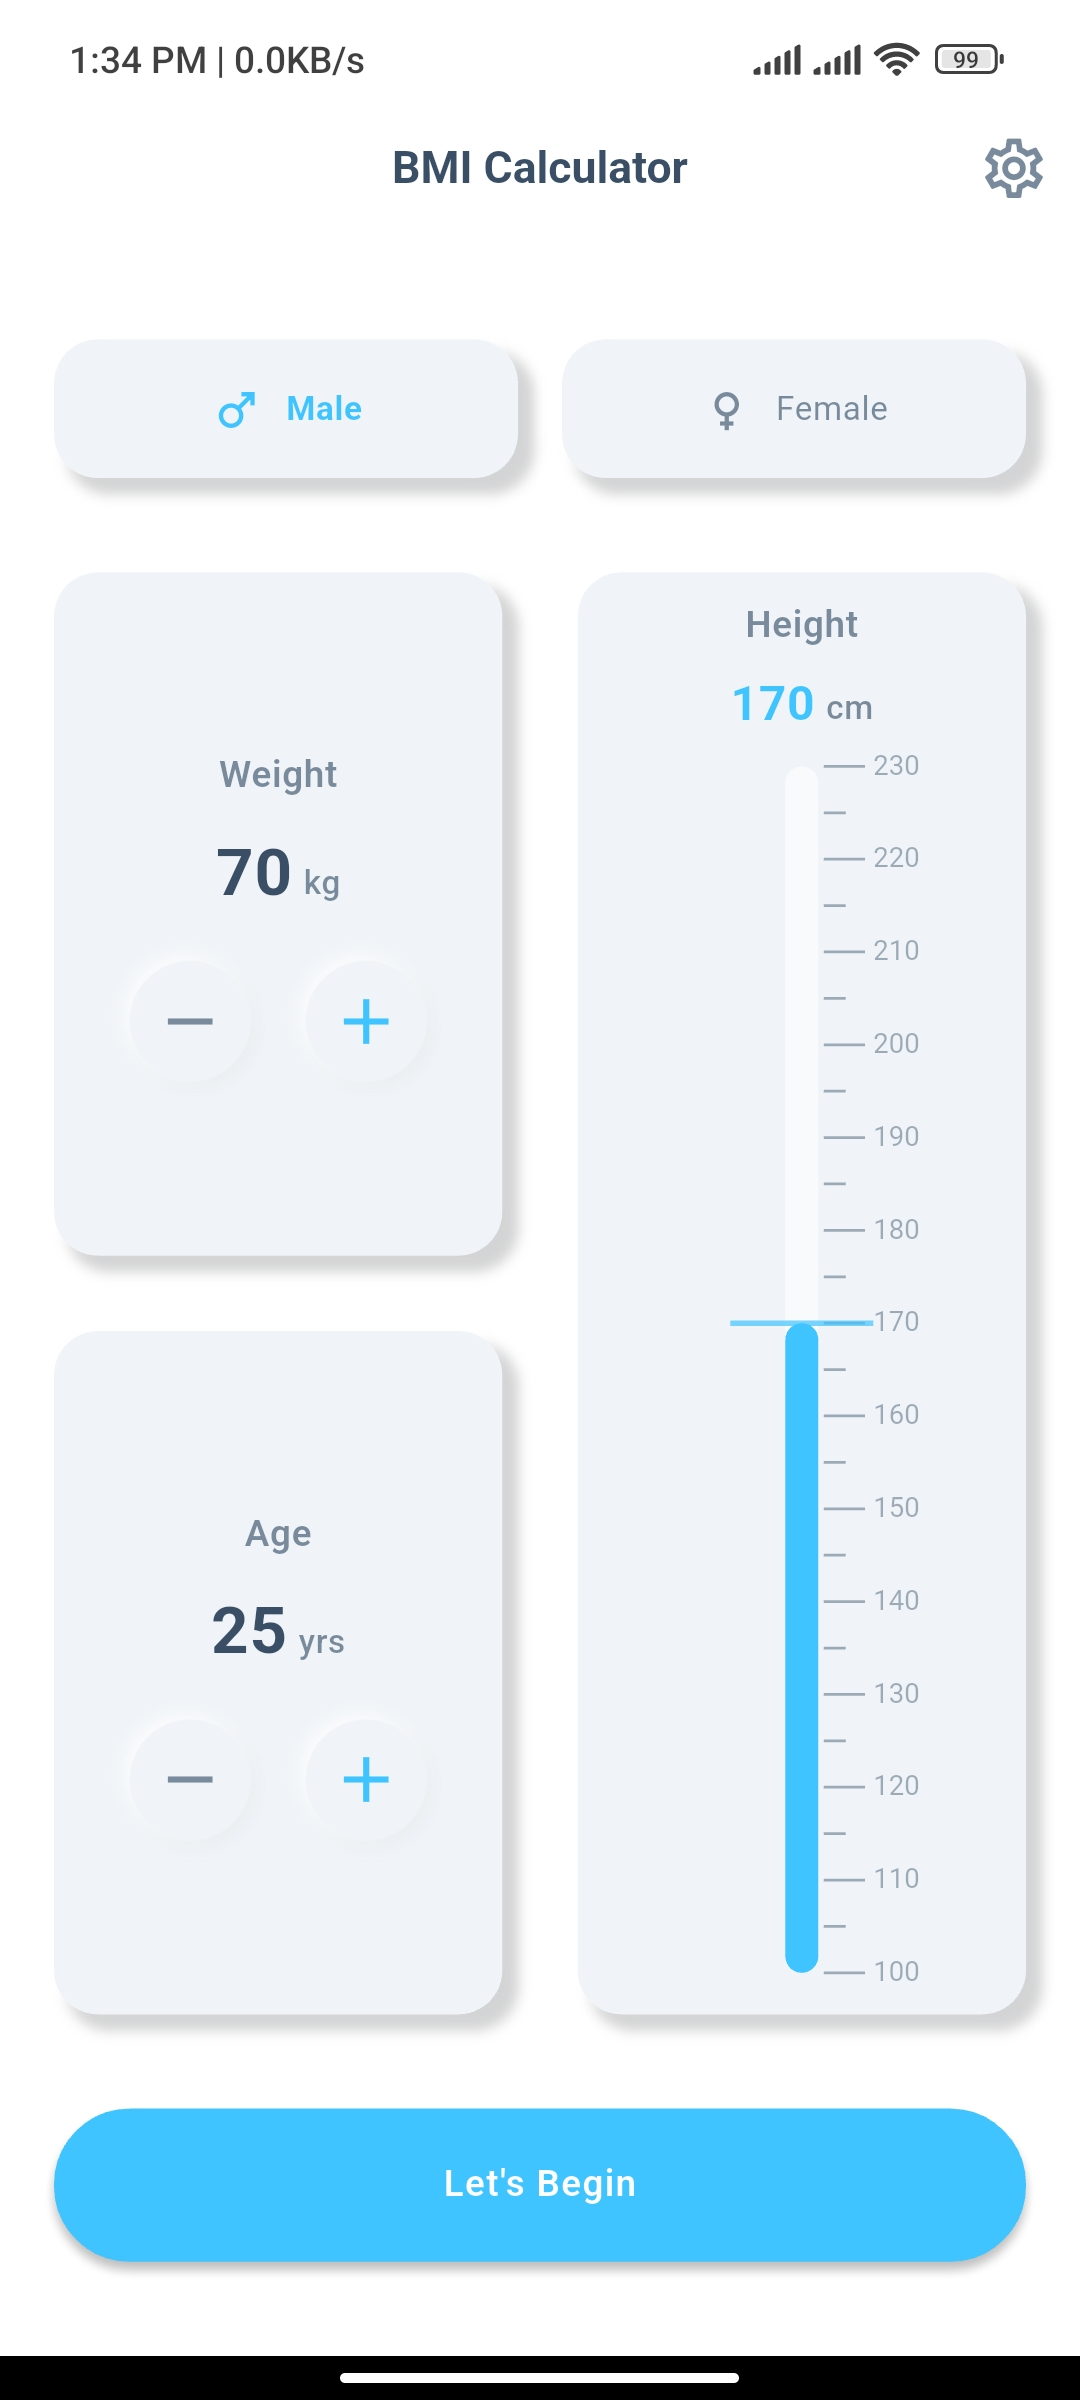
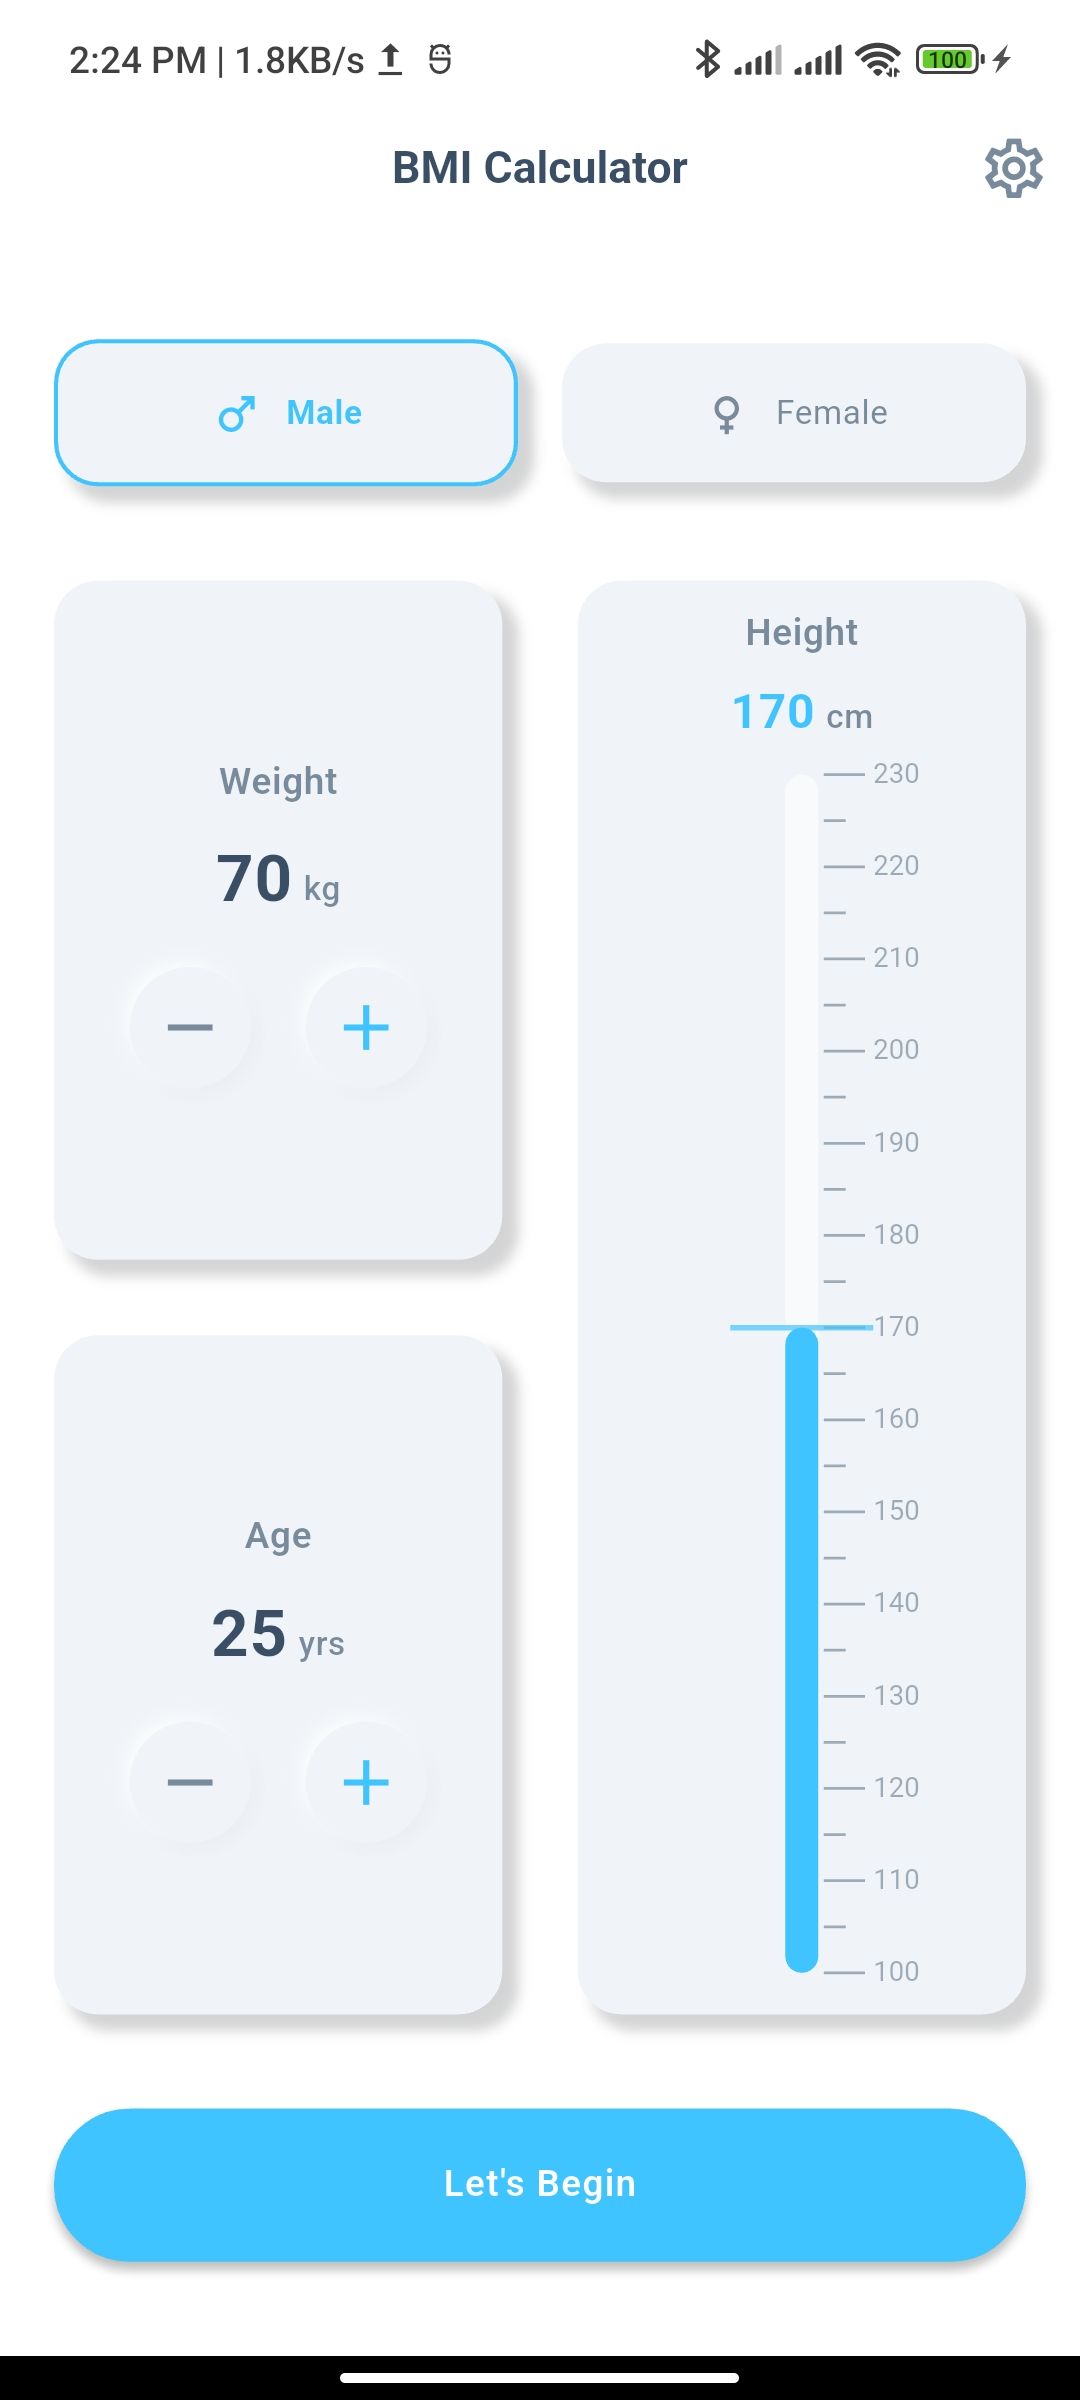
code fix commit

diff --git a/lib/bmi_screen.dart b/lib/bmi_screen.dart
@@ -32,8 +32,8 @@ class NeumorphicCard extends StatelessWidget {
     
     BoxBorder? borderStyle;
     if (selected) {
-      // V2 gender selector changed text color, not card. Let's keep card consistent.
-      // If a border is desired for selection: borderStyle = Border.all(color: AppColors.primaryAccent, width: 1.5);
+      // V2 gender selector change card border color.
+      borderStyle = Border.all(color: AppColors.primaryAccent, width: 1.5);
     }
 
     return GestureDetector(
@@ -47,13 +47,13 @@ class NeumorphicCard extends StatelessWidget {
           border: borderStyle, // Apply border if defined
           boxShadow: [
             BoxShadow(
-              color: AppColors.shadowDark.withOpacity(0.5), // V2 style
+              color: AppColors.shadowDark.withValues(alpha: 0.5), // V2 style
               offset: const Offset(5, 5),
               blurRadius: 3,
               spreadRadius: 1,
             ),
             BoxShadow(
-              color: AppColors.shadowLight.withOpacity(0.7), // V2 style
+              color: AppColors.shadowLight.withValues(alpha: 0.7), // V2 style
               offset: const Offset(-5, -5),
               blurRadius: 3,
               spreadRadius: 1,
@@ -94,12 +94,12 @@ class ValueStepper extends StatelessWidget {
           shape: BoxShape.circle,
           boxShadow: [
             BoxShadow(
-              color: AppColors.shadowDark.withOpacity(0.1),
+              color: AppColors.shadowDark.withValues(alpha: 0.1),
               offset: const Offset(2, 2),
               blurRadius: 4,
             ),
             BoxShadow(
-              color: AppColors.shadowLight.withOpacity(0.7),
+              color: AppColors.shadowLight.withValues(alpha: 0.7),
               offset: const Offset(-2, -2),
               blurRadius: 4,
             ),
@@ -264,9 +264,9 @@ class _ThermometerHeightSliderState extends State<ThermometerHeightSlider> {
                   maxHeight: widget.maxHeight,
                   trackHeight: trackHeight,
                   accentColor: AppColors.primaryAccent, // V2 philosophy
-                  tickColor: AppColors.textSecondary.withOpacity(0.7), // V2 philosophy
-                  backgroundColor: AppColors.primaryBackground.withOpacity(0.5), // V2 philosophy (light track)
-                  indicatorLineColor: AppColors.primaryAccent.withOpacity(0.7), // V2 philosophy
+                  tickColor: AppColors.textSecondary.withValues(alpha: 0.7), // V2 philosophy
+                  backgroundColor: AppColors.primaryBackground.withValues(alpha: 0.5), // V2 philosophy (light track)
+                  indicatorLineColor: AppColors.primaryAccent.withValues(alpha: 0.7), // V2 philosophy
                 ),
               ),
             ),
@@ -457,7 +457,7 @@ class _BmiScreenState extends State<BmiScreen> {
   void _calculateAndNavigate() {
     if (_selectedGender == null) {
       ScaffoldMessenger.of(context).showSnackBar(
-        SnackBar(content: const Text('Please select a gender.'), backgroundColor: AppColors.error), // V2 style
+        const SnackBar(content: Text('Please select a gender.'), backgroundColor: AppColors.error), // V2 style
       );
       return;
     }
@@ -492,13 +492,13 @@ class _BmiScreenState extends State<BmiScreen> {
     return Scaffold(
       backgroundColor: AppColors.primaryBackground, // V2 style for scaffold background
       appBar: AppBar(
-        title: Text('BMI Calculator', style: TextStyle(fontWeight: FontWeight.bold, color: AppColors.textPrimary)), // V2 style
+        title: const Text('BMI Calculator', style: TextStyle(fontWeight: FontWeight.bold, color: AppColors.textPrimary)), // V2 style
         centerTitle: true,
         elevation: 0,
         backgroundColor: AppColors.primaryBackground, // V2 often used cardBackground or transparent for AppBar
         actions: [
           IconButton(
-            icon: Icon(Icons.settings_outlined, size: 26, color: AppColors.iconColor), // V2 style
+            icon: const Icon(Icons.settings_outlined, size: 26, color: AppColors.iconColor), // V2 style
             onPressed: () { /* Placeholder for settings */ },
           ),
         ],

diff --git a/lib/bmi_details_screen.dart b/lib/bmi_details_screen.dart
@@ -10,9 +10,11 @@ class BmiDetailsScreen extends StatelessWidget {
   // Aligning with V2 color logic for categories
   Color _getCategoryColor(String category, BuildContext context) {
     if (category == "Underweight") return AppColors.success; // V2 color
-    if (category == "Normal weight") return Colors.lightBlue.shade400;      // V2 color
+    if (category == "Normal weight") {
+      return Colors.lightBlue.shade400; // V2 color
+    }
     if (category == "Overweight") return Colors.orange.shade600; // V2 color
-    if (category == "Obese") return AppColors.error;          // V2 color
+    if (category == "Obese") return AppColors.error; // V2 color
     return AppColors.textPrimary; // V2 default
   }
 
@@ -32,7 +34,8 @@ class BmiDetailsScreen extends StatelessWidget {
     };
 
     return Card(
-      elevation: 3.0, // V2 often had subtle elevation or relied on neumorphic shadows
+      elevation:
+          3.0, // V2 often had subtle elevation or relied on neumorphic shadows
       margin: EdgeInsets.symmetric(vertical: screenSize.height * 0.015),
       shape: RoundedRectangleBorder(borderRadius: BorderRadius.circular(15.0)),
       color: AppColors.cardBackground, // V2 card background
@@ -70,14 +73,15 @@ class BmiDetailsScreen extends StatelessWidget {
                     Text(
                       categoryRange,
                       style: TextStyle(
-                        color: AppColors.textSecondary, // V2 secondary text color
+                        color:
+                            AppColors.textSecondary, // V2 secondary text color
                         fontSize: textFontSize,
                       ),
                     ),
                   ],
                 ),
               );
-            }).toList(),
+            }),
           ],
         ),
       ),
@@ -92,7 +96,8 @@ class BmiDetailsScreen extends StatelessWidget {
     final bmiLabelFontSize = screenSize.width * 0.04;
 
     final String currentCategory = BmiCalculator.getBmiCategory(bmi);
-    final Color currentCategoryColor = _getCategoryColor(currentCategory, context);
+    final Color currentCategoryColor =
+        _getCategoryColor(currentCategory, context);
 
     return Card(
       elevation: 3.0,
@@ -154,7 +159,8 @@ class BmiDetailsScreen extends StatelessWidget {
         ),
         centerTitle: true,
         leading: IconButton(
-          icon: const Icon(Icons.arrow_back_ios_new_rounded, color: AppColors.textPrimary), // V2 AppBar icon color
+          icon: const Icon(Icons.arrow_back_ios_new_rounded,
+              color: AppColors.textPrimary), // V2 AppBar icon color
           onPressed: () => Navigator.of(context).pop(),
         ),
         elevation: 0, // V2 often had flat AppBars or subtle shadow
@@ -176,4 +182,3 @@ class BmiDetailsScreen extends StatelessWidget {
     );
   }
 }
-

diff --git a/lib/app_colors.dart b/lib/app_colors.dart
@@ -1,10 +1,9 @@
 import 'package:flutter/material.dart';
 
-// Inspired by the UI example, with unique touches for a light, clean, and modern theme.
 class AppColors {
-  static const Color primaryAccent = Color(0xFF40C4FF); // A clear, vibrant light blue (slightly different from example)
-  static const Color cardBackground = Color(0xFFF0F4F8); // A very light, soft grey for the overall background
-  static const Color primaryBackground = Color(0xFFFFFFFF);    // Pure white for cards and main content areas
+  static const Color primaryAccent = Color(0xFF40C4FF);
+  static const Color cardBackground = Color(0xFFF0F4F8);
+  static const Color primaryBackground = Color(0xFFFFFFFF);
   static const Color shadowLight = Color(0xFFFFFFFF);       // For neumorphic light shadow
   static const Color shadowDark = Color(0xFFA8A9AB);        // For neumorphic dark shadow (derived from primaryBackground)
 

diff --git a/lib/main.dart b/lib/main.dart
@@ -13,7 +13,7 @@ class MyApp extends StatelessWidget {
   Widget build(BuildContext context) {
     return MaterialApp(
       title: 'Ratiovate BMI Calculator',
-      theme: AppTheme.lightTheme, // Applying the new custom theme
+      theme: AppTheme.lightTheme, // Applying the custom theme
       debugShowCheckedModeBanner: false,
       home: const SplashScreen(), // Initial route remains SplashScreen
     );
